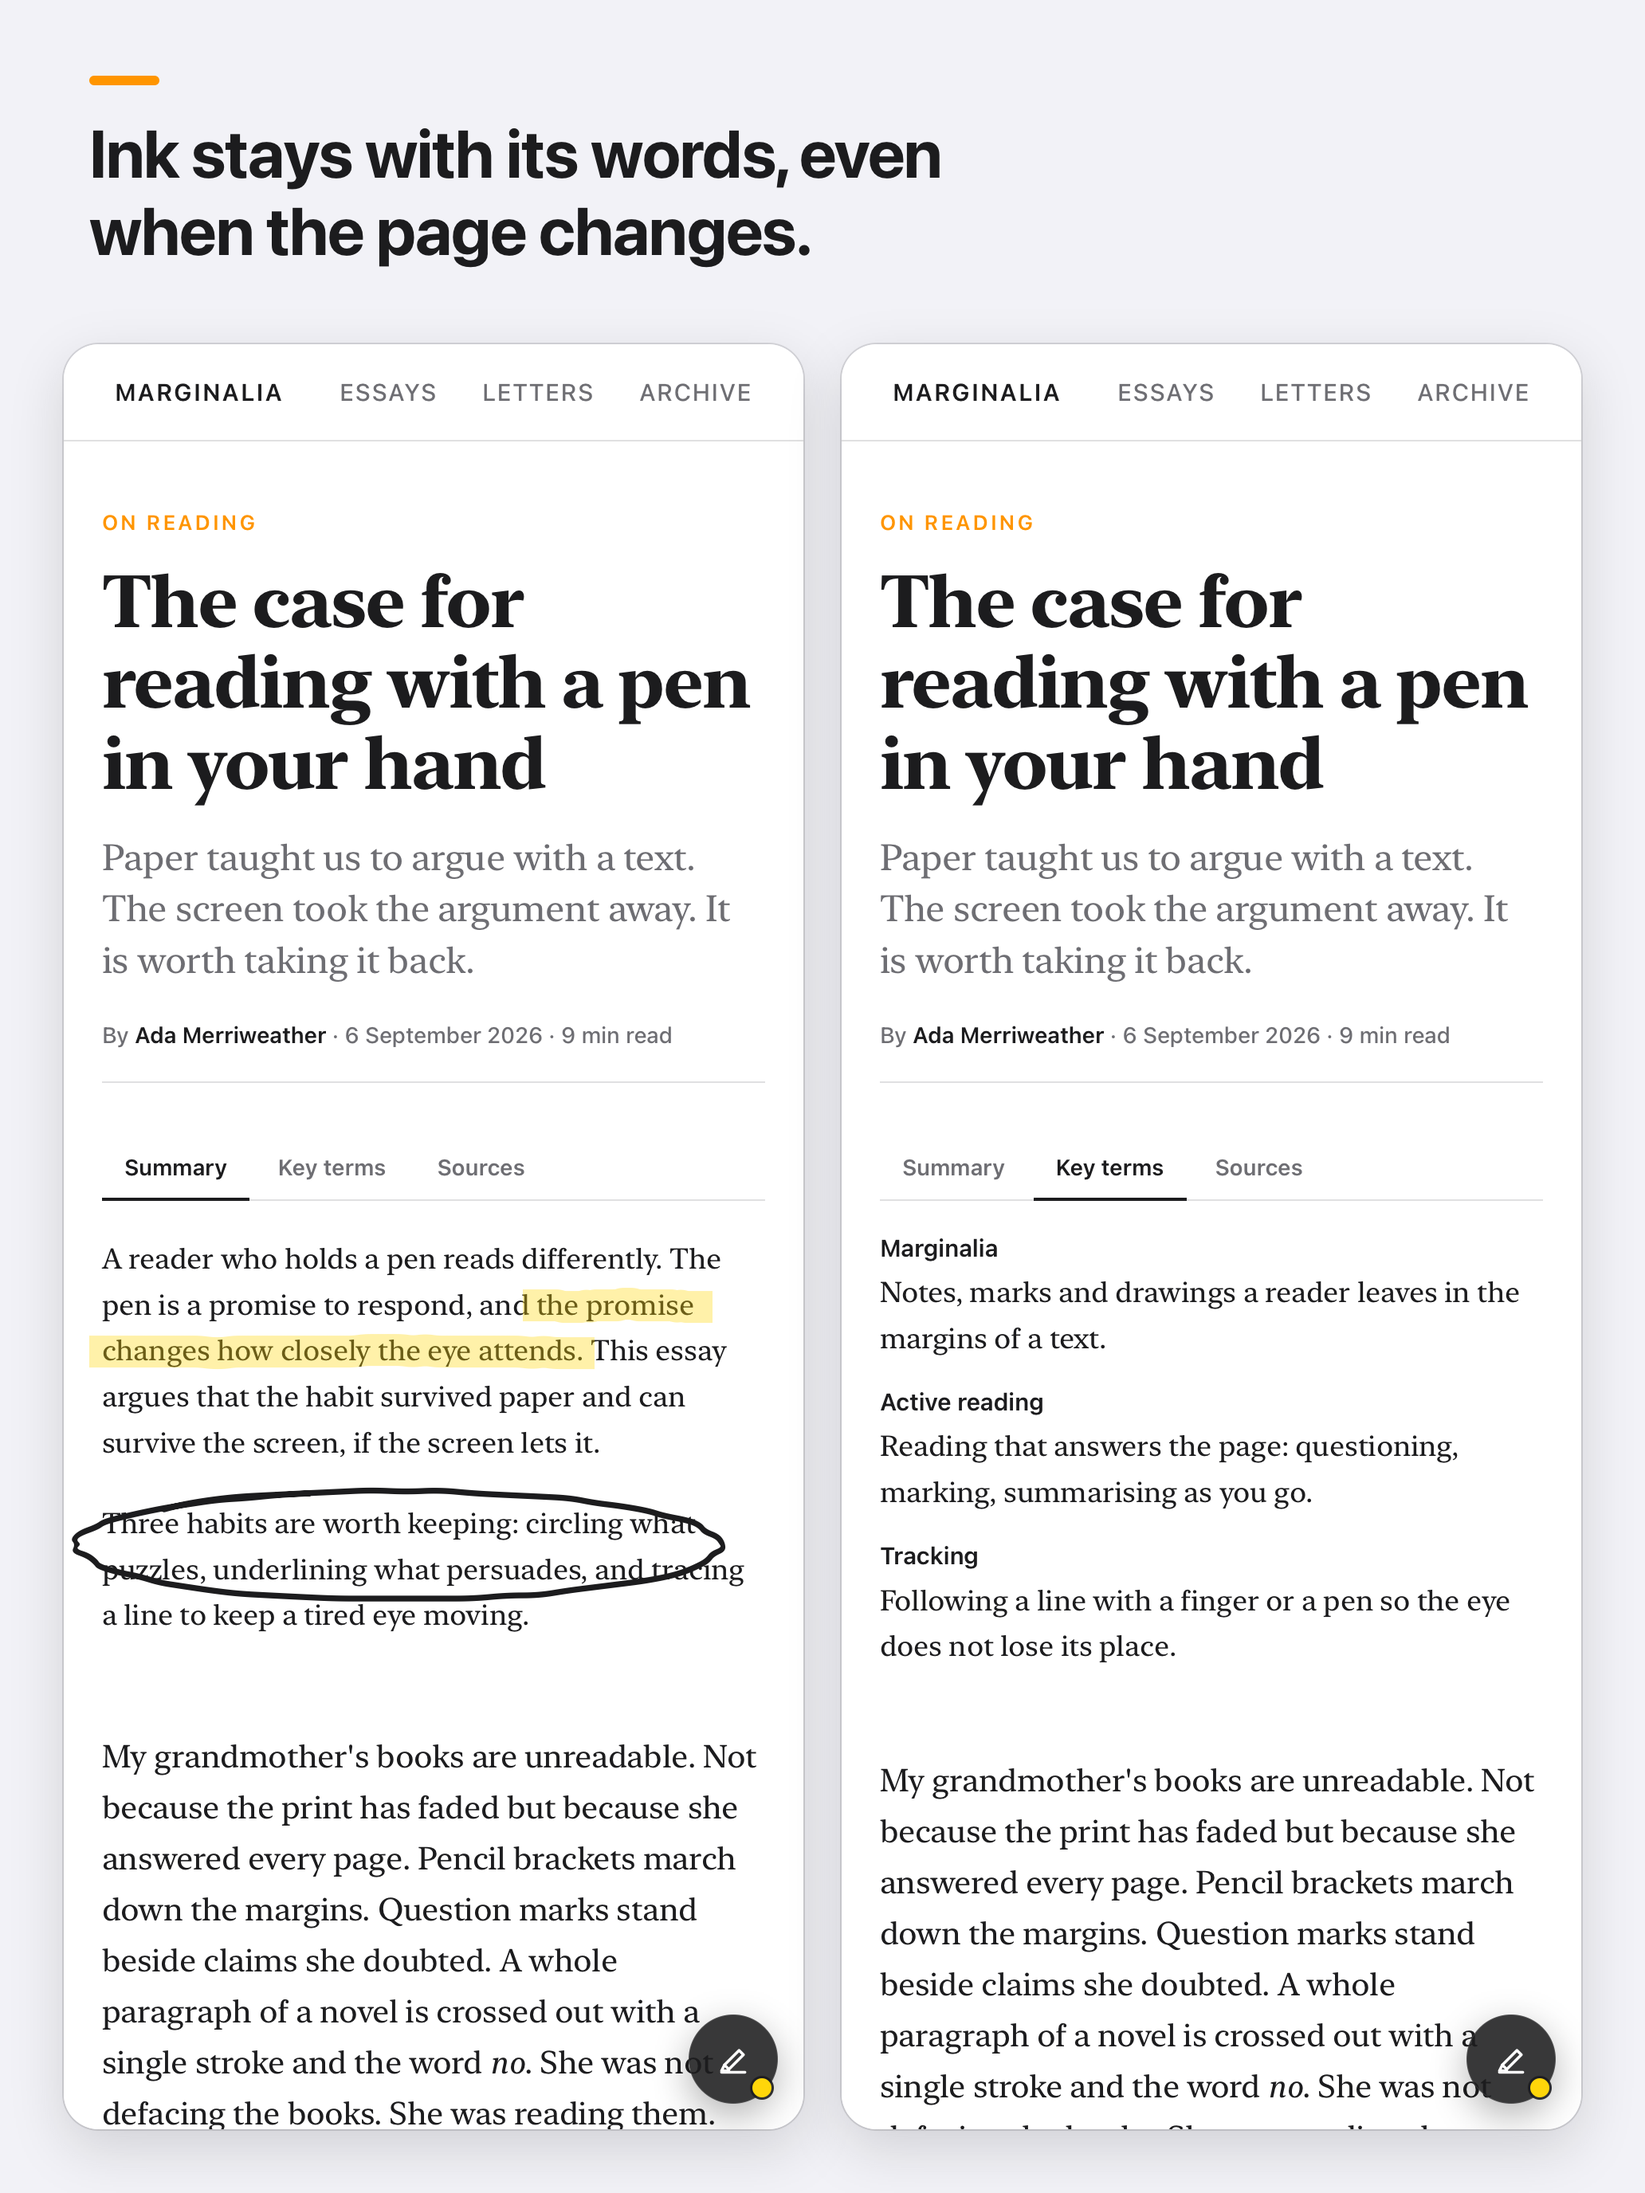
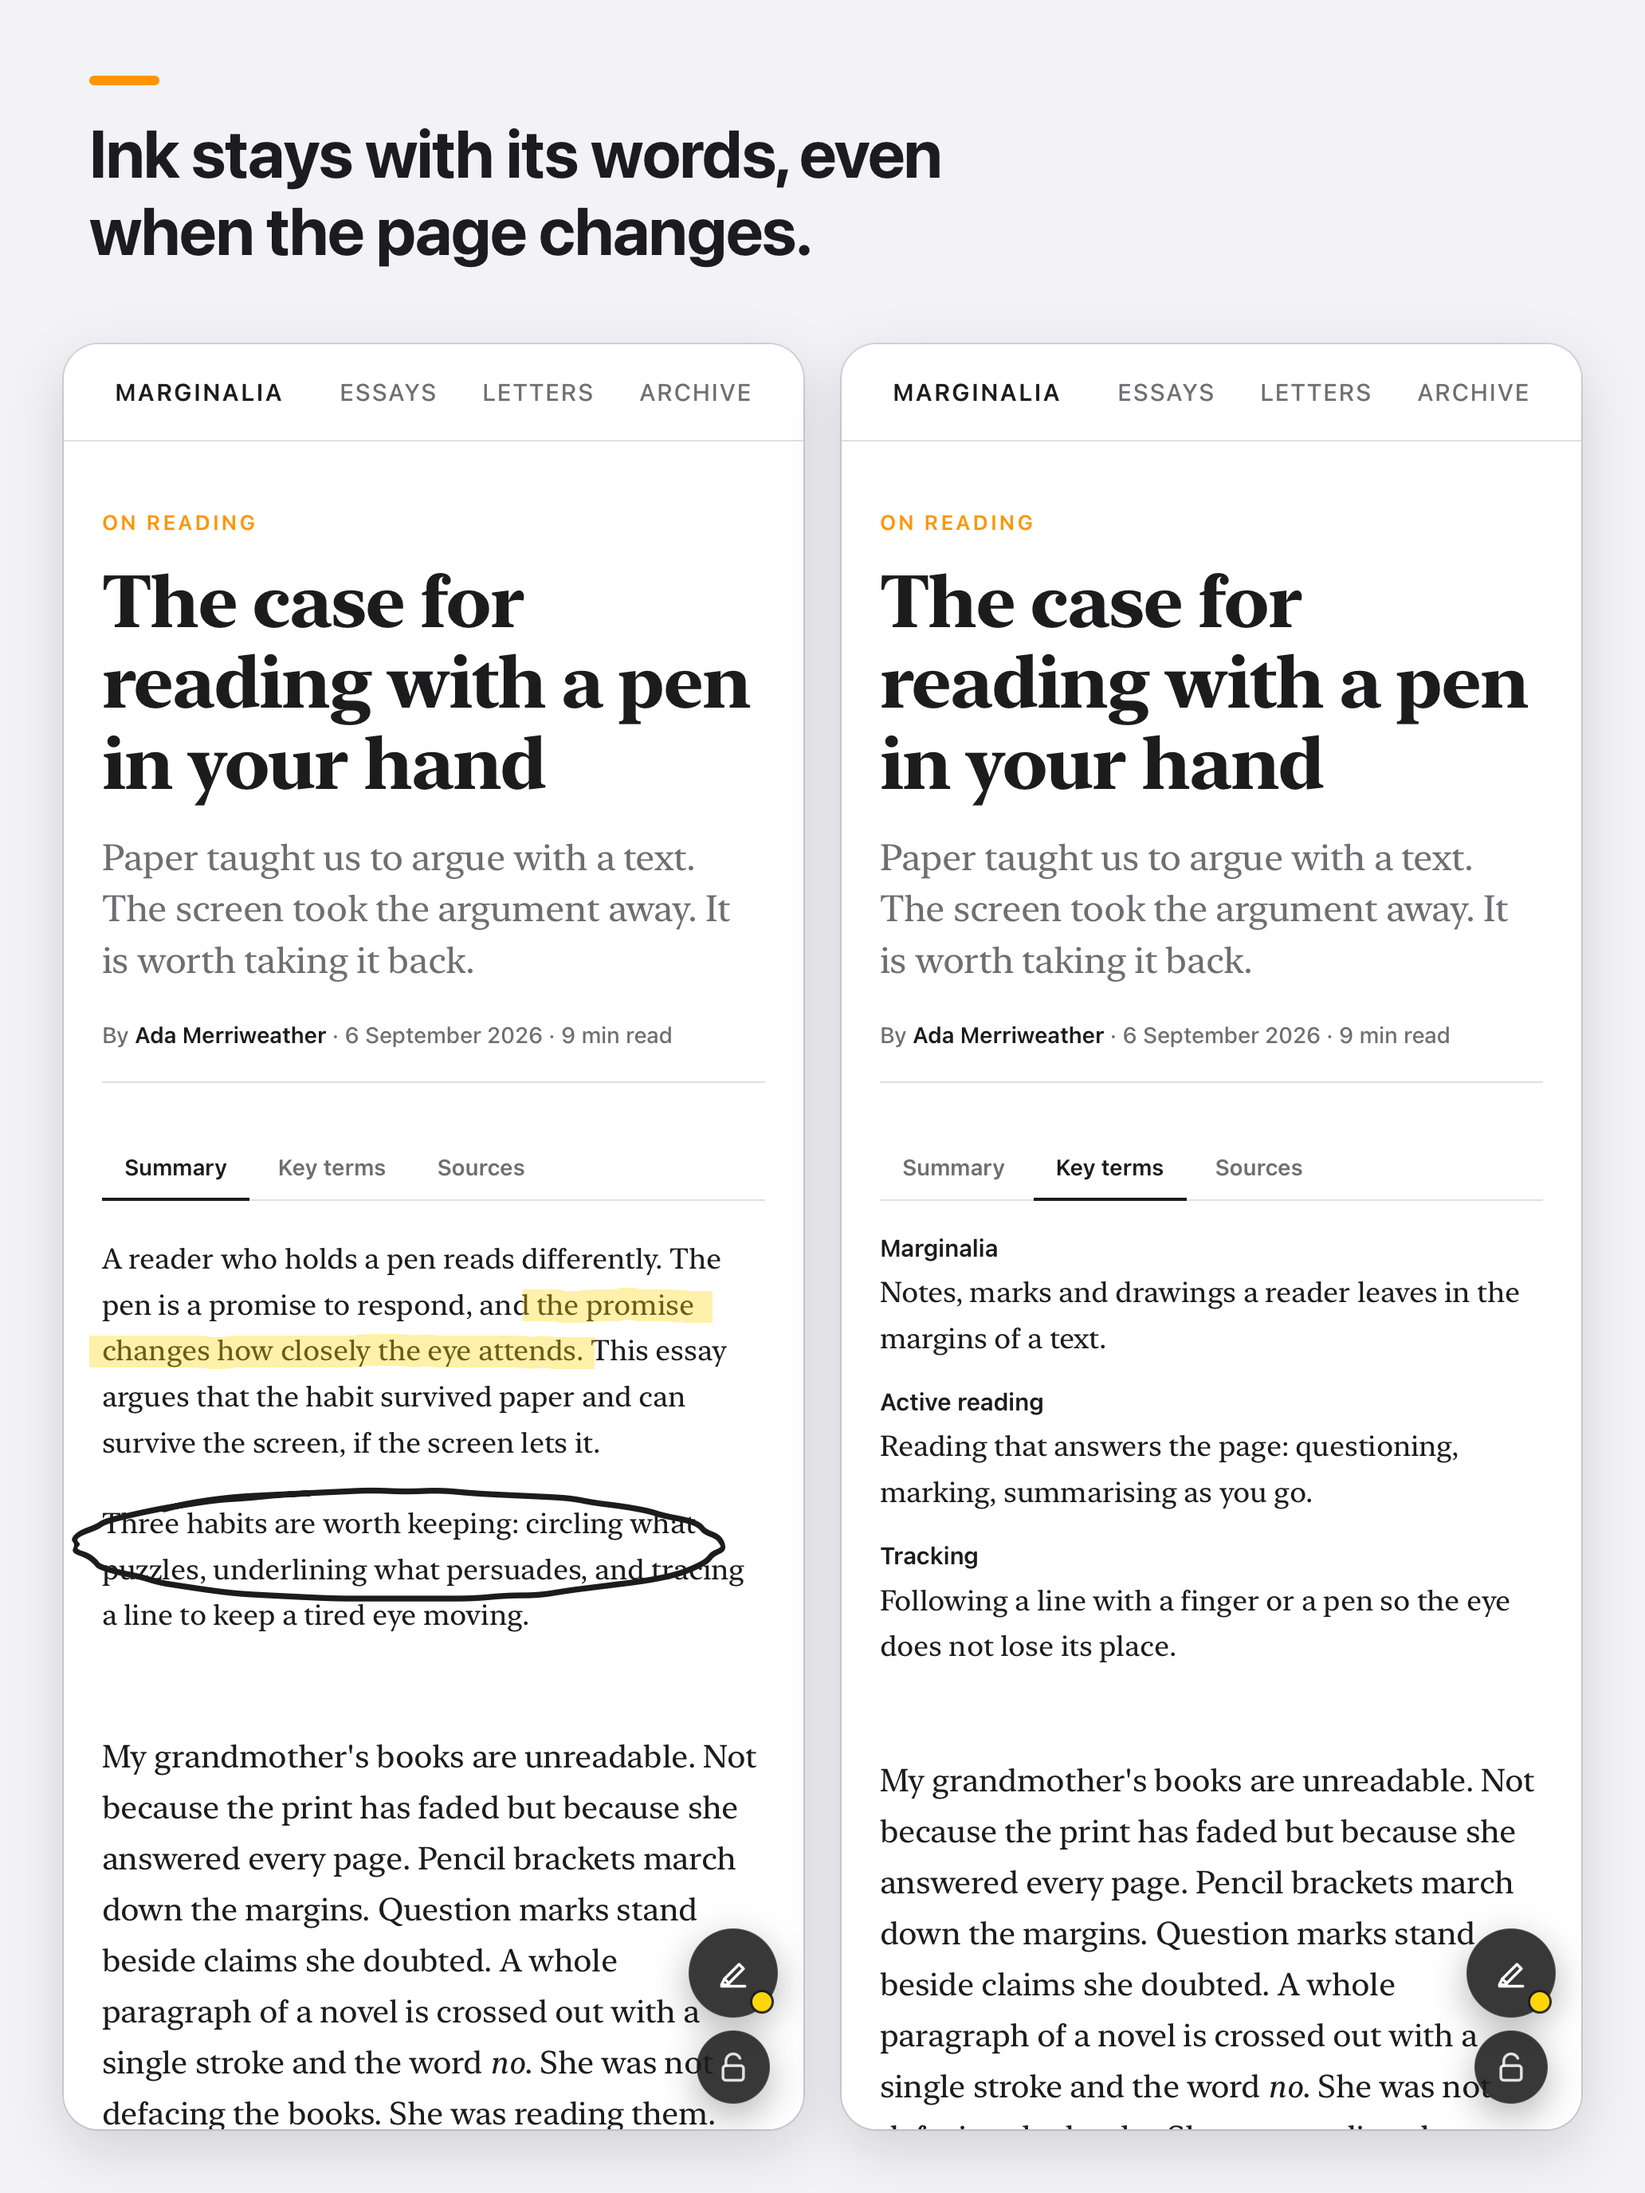
feat(toolbar): lock circle under the collapsed tool circle
Collapsed, a smaller lock circle sits beneath the tool circle and travels with it.
Tapping it locks or unlocks without expanding; dragging it moves the toolbar.
Spec rule 6 updated, screenshot 3 re-rendered, status back to built until it is
checked on the iPad.

Changed region(s): [[0.8682, 0.875, 0.9612, 0.9688], [0.4031, 0.875, 0.4961, 0.9688]]

diff --git a/extension/content.js b/extension/content.js
@@ -1297,7 +1297,7 @@
   // ── Toolbar host ───────────────────────────────────────────────────────
   // toolbar.md. Markup and styles live in the shadow root.
 
-  const ui = { root: null, pill: null, dot: null, noticeEl: null, colors: null, widths: null, wrange: null, wdot: null, panel: null, picker: null, pickerInput: null, pickerDot: null, buttons: {}, collapsed: true, panelOpen: false, dragging: false, posKey: "", version: 0 };
+  const ui = { root: null, pill: null, dot: null, collapsedEl: null, lockdot: null, noticeEl: null, colors: null, widths: null, wrange: null, wdot: null, panel: null, picker: null, pickerInput: null, pickerDot: null, buttons: {}, collapsed: true, panelOpen: false, dragging: false, posKey: "", version: 0 };
   let noticeTimer = 0;
 
   const ICONS = {
@@ -1356,6 +1356,9 @@
     .vertical .width input[type=range] { width: 140px; }
     .dot { position: relative; width: 56px; height: 56px; border: 0; margin: 0; padding: 0; border-radius: 28px; display: flex; align-items: center; justify-content: center; color: #fff; cursor: pointer; touch-action: none; }
     .dot .tint { position: absolute; width: 12px; height: 12px; border-radius: 50%; right: 4px; bottom: 4px; box-shadow: 0 0 0 1.5px rgba(28,28,30,0.9); }
+    .collapsed { display: flex; flex-direction: column; align-items: center; gap: 8px; width: 56px; }
+    .dot.lockdot { width: 46px; height: 46px; border-radius: 23px; color: rgba(255,255,255,0.85); }
+    .dot.lockdot.active { background: rgba(255,149,0,0.92); color: #1c1c1e; }
     .notice { position: absolute; left: 50%; transform: translateX(-50%); bottom: calc(100% + 10px); white-space: nowrap; background: rgba(28,28,30,0.92); color: #fff; padding: 8px 12px; border-radius: 10px; font-size: 13px; opacity: 0; transition: opacity 160ms ease; pointer-events: none; }
     #root[data-edge="top"] .notice { bottom: auto; top: calc(100% + 10px); }
     .notice.show { opacity: 1; }
@@ -1418,7 +1421,10 @@
         </div>
         <div class="group"><button class="btn" data-act="prefs" aria-label="Preferences">${svg("gear")}<small>More</small></button></div>
       </div>
-      <button class="dot" id="dot" aria-label="Expand Inkover toolbar">${svg("pen")}<span class="tint"></span></button>
+      <div class="collapsed" id="collapsed">
+        <button class="dot" id="dot" aria-label="Expand Inkover toolbar">${svg("pen")}<span class="tint"></span></button>
+        <button class="dot lockdot" id="lockdot" aria-label="Lock">${svg("unlock")}</button>
+      </div>
       <div class="panel" id="panel" hidden>
         <h3>Toolbar</h3>
         <div class="pref"><span>Labels</span><button class="switch" data-pref="labels" role="switch" aria-label="Labels"></button></div>
@@ -1433,6 +1439,8 @@
     ui.root = root;
     ui.pill = root.querySelector("#pill");
     ui.dot = root.querySelector("#dot");
+    ui.collapsedEl = root.querySelector("#collapsed");
+    ui.lockdot = root.querySelector("#lockdot");
     ui.noticeEl = root.querySelector("#notice");
     ui.colors = root.querySelector("#colors");
     ui.widths = root.querySelector("#widths");
@@ -1462,6 +1470,7 @@
     ui.pickerInput.addEventListener("change", () => pickColor(ui.pickerInput.value, true));
     installDrag(ui.buttons.collapse, () => { ui.collapsed = true; ui.panelOpen = false; updateToolbar(); });
     installDrag(ui.dot, () => { ui.collapsed = false; updateToolbar(); });
+    installDrag(ui.lockdot, toggleLock); // toolbar.md rule 6: the lock circle switches without expanding, and drags the toolbar like the tool circle
     updateToolbar();
   }
 
@@ -1609,7 +1618,7 @@
     el.addEventListener("click", (e) => e.stopPropagation(), true);
   }
 
-  function activeEl() { return ui.collapsed ? ui.dot : ui.pill; }
+  function activeEl() { return ui.collapsed ? ui.collapsedEl : ui.pill; }
 
   function snapToolbar(clientX, clientY) {
     const el = activeEl();
@@ -1658,8 +1667,11 @@
     const s = state.settings;
     const isLocked = state.mode === Mode.Locked;
     ui.pill.hidden = ui.collapsed;
-    ui.dot.hidden = !ui.collapsed;
+    ui.collapsedEl.hidden = !ui.collapsed;
     ui.panel.hidden = !ui.panelOpen || ui.collapsed;
+    ui.lockdot.innerHTML = svg(isLocked ? "lock" : "unlock"); // toolbar.md rule 6, modes-and-lock.md rule 6: the icon shows the state
+    ui.lockdot.classList.toggle("active", isLocked);
+    ui.lockdot.setAttribute("aria-label", isLocked ? "Locked. Unlock to browse." : "Unlocked. Lock to draw.");
     ui.root.classList.toggle("nolabels", !s.labels);   // preferences.md rule 2
     ui.root.classList.toggle("compact", !!s.compact);   // preferences.md rule 3
     ui.buttons.lock.innerHTML = svg(isLocked ? "lock" : "unlock") + "<small>" + (isLocked ? "Unlock" : "Lock") + "</small>"; // modes-and-lock.md rule 6: icon shows the state, label the action

diff --git a/docs/features/toolbar.md b/docs/features/toolbar.md
@@ -1,10 +1,10 @@
 ---
 type: feature
 id: F11
-status: verified
+status: built
 depends: ["[[modes-and-lock]]"]
 decisions: []
-updated: 2026-09-06
+updated: 2026-09-07
 ---
 # Toolbar
 
@@ -17,7 +17,7 @@ The only visible UI. A floating pill with every control, operated by finger or P
 3. Default position bottom-right, 16 px inside the visual viewport. Drag by its handle to move; on release it snaps to the nearest screen edge.
 4. Position is remembered globally, not per page.
 5. It stays inside the visual viewport during pinch-zoom, rotation and while the keyboard is up.
-6. Two states. Collapsed: one circle showing the current tool and colour. Expanded: the full pill. Tap toggles. Turning Inkover on expands it; Lock and Unlock leave it as it is.
+6. Two states. Collapsed: a circle showing the current tool and colour, with a smaller lock circle beneath it that travels with it. Tapping the tool circle expands; tapping the lock circle locks or unlocks and nothing expands. The lock circle shows the state like the Lock button, orange when Locked. Expanded: the full pill; the grip collapses it. Turning Inkover on expands it; Lock and Unlock leave it as it is.
 7. Expanded contents, in groups: the grip; Lock, Pen, Highlight; Eraser, Trail, Spotlight; the colour swatches; the width slider; Undo, Redo; Hide, Clear; More. On a side edge each group is its own row of up to three, centred, so the column has no orphan cells.
 8. Colour swatches: six pen colours for Pen and Trail, four highlighter colours for Highlighter, none for Eraser and Spotlight. Pen colours: black, white, red, orange, blue, green. Highlighter colours: yellow, green, pink, blue.
 9. After the presets comes one custom swatch. With no colour picked yet it shows a rainbow and a tap opens the system colour picker. Once a colour is picked the swatch shows it: a tap selects it, a second tap opens the picker. Every colour picked replaces the swatch's colour, live while the picker is open. Pen and Highlighter each keep their own.
@@ -54,3 +54,4 @@ The only visible UI. A floating pill with every control, operated by finger or P
 - [x] Pinch-zoom the page: the toolbar keeps its size and stays on screen.
 - [x] Every button is comfortably tappable with a finger.
 - [x] Open the colour picker and slide the hue: the picker stays open and the ink colour follows.
+- [ ] Collapse the toolbar: a lock circle sits under the tool circle. Tap it: the lock switches, the notice shows, the toolbar stays collapsed. Drag it: the whole toolbar moves.

diff --git a/docs/index.md b/docs/index.md
@@ -1,12 +1,12 @@
 ---
 type: index
-generated: 2026-09-06
+generated: 2026-09-07
 ---
 # Index
 
 GENERATED by `scripts/build-index.py`. Do not edit. Rebuild after any change under `docs/`.
 
-Features: 18 verified.
+Features: 1 built, 17 verified.
 
 ## Features
 
@@ -22,7 +22,7 @@ Features: 18 verified.
 | [Clear](features/clear.md) | F08 | `verified` | 2026-09-06 |
 | [Persistence](features/persistence.md) | F09 | `verified` | 2026-09-06 |
 | [Anchoring](features/anchoring.md) | F10 | `verified` | 2026-09-06 |
-| [Toolbar](features/toolbar.md) | F11 | `verified` | 2026-09-06 |
+| [Toolbar](features/toolbar.md) | F11 | `built` | 2026-09-07 |
 | [Reading spotlight](features/reading-spotlight.md) | F12 | `verified` | 2026-09-06 |
 | [Shape snap](features/shape-snap.md) | F13 | `verified` | 2026-09-06 |
 | [Scribble to erase](features/scribble-to-erase.md) | F14 | `verified` | 2026-09-06 |
